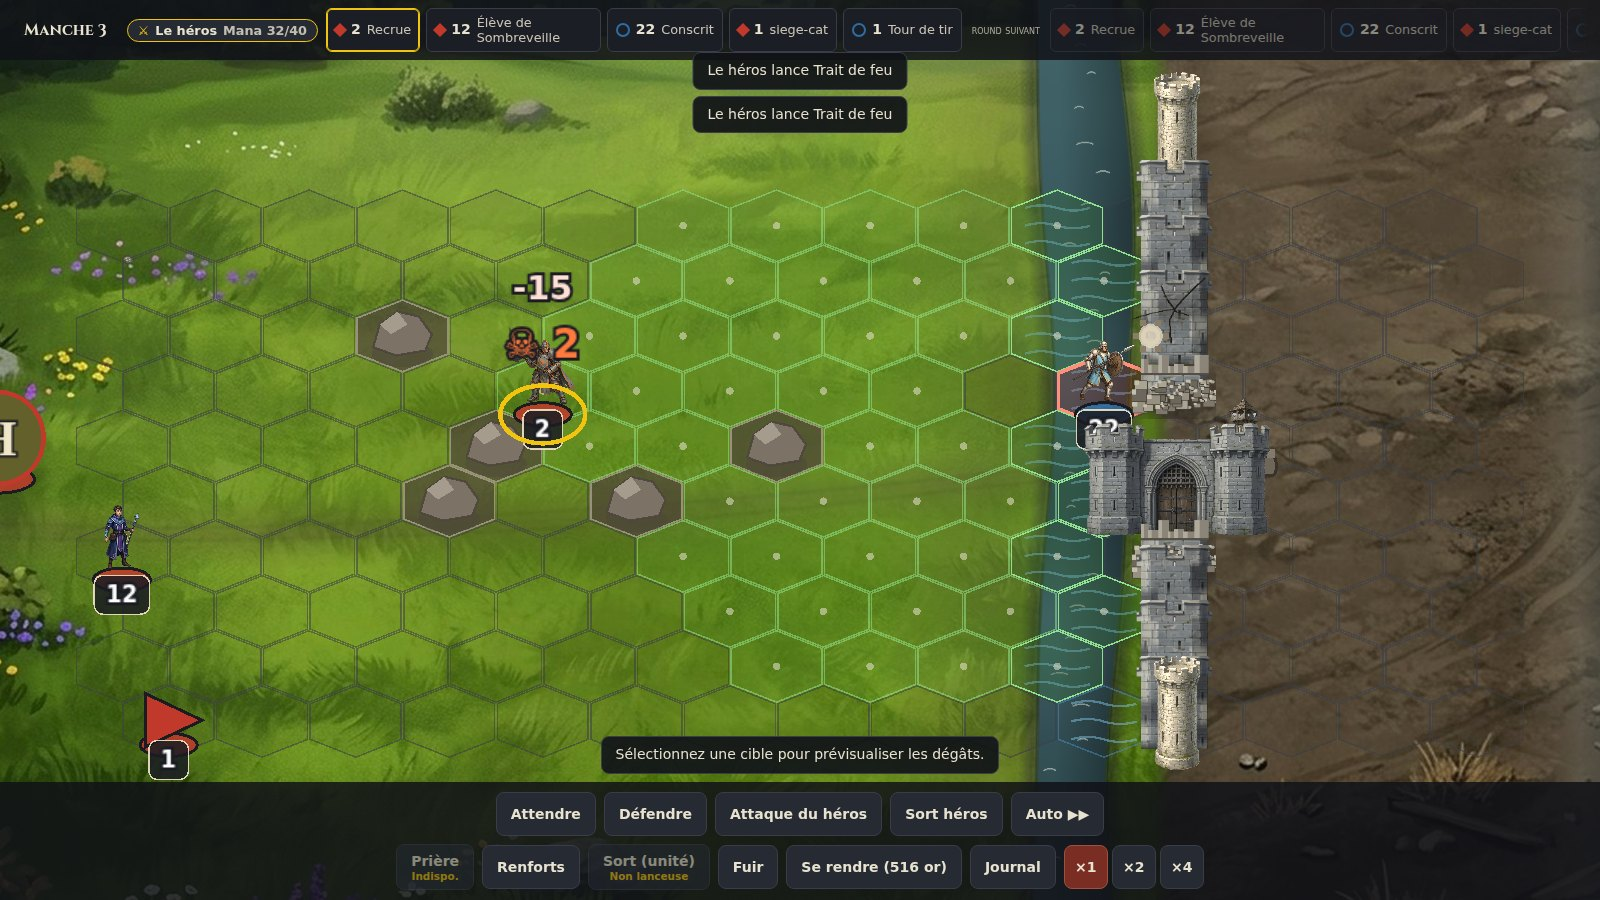
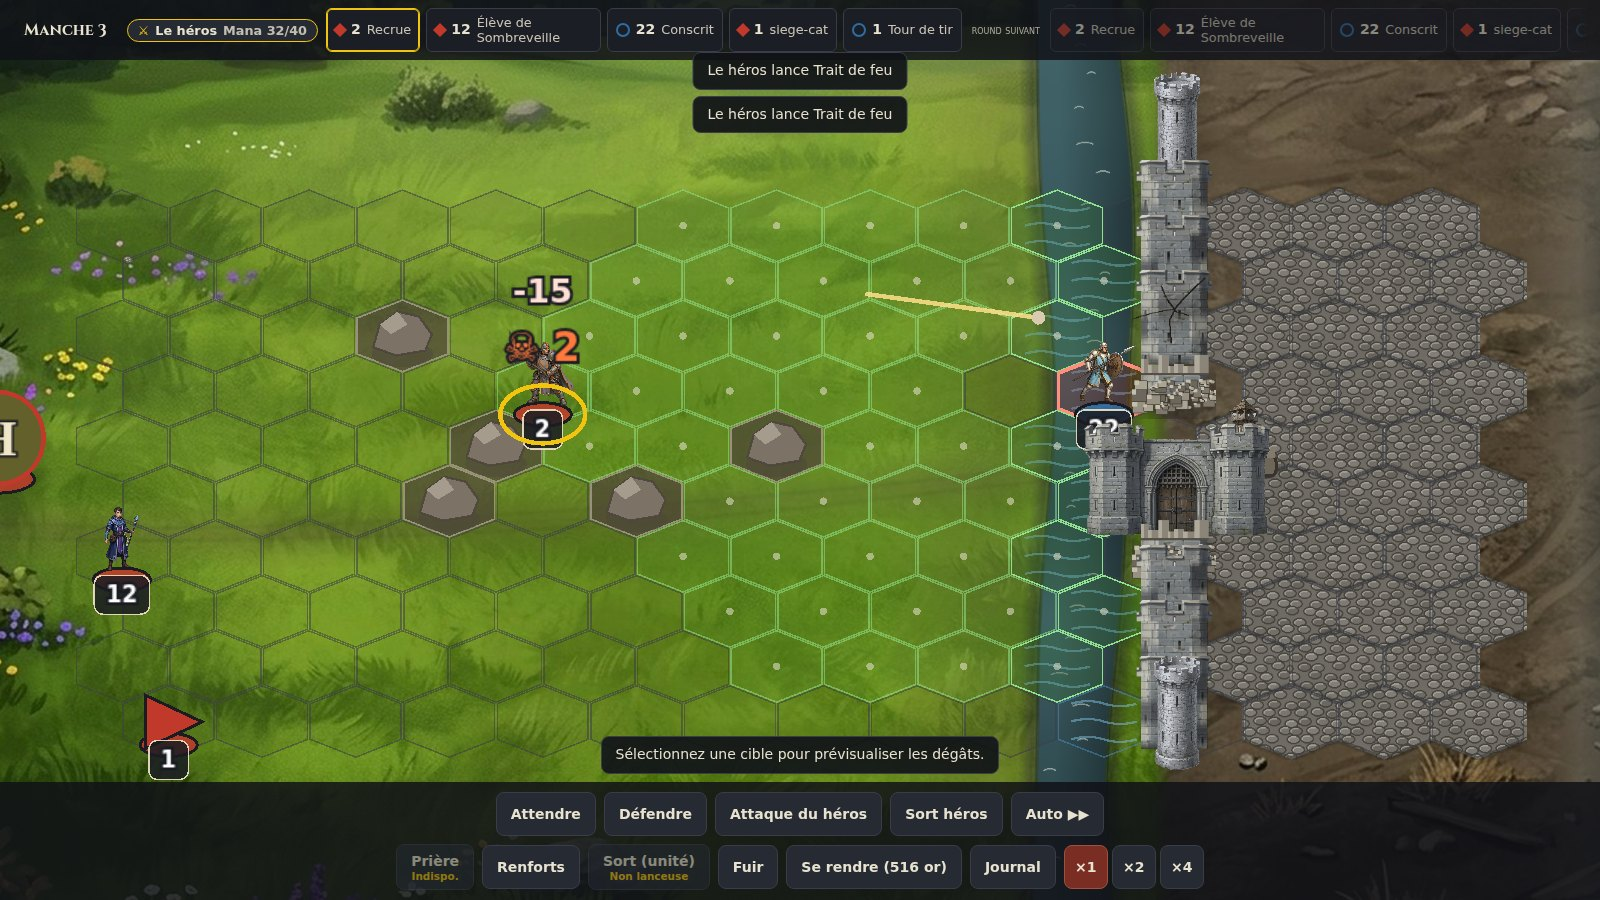
Siège : pavage hexagonal de la cour (effet ville) + tour d'extrémité recolorée
Retour porteur (itération 1 sur PR #490) :
- « effet ville » : la cour intérieure est pavée PAR HEX
  (combat/siege-tile-court-1..3, hex aplati iso avec débord anti-jointure,
  variante déterministe par case) — l'enceinte se lit comme une esplanade
  de ville, plus une simple bande de terre ;
- tour d'extrémité recolorée dans la pierre grise du gatehouse
  (combat/siege-piece-tower, désaturation + refroidissement, modelé peint
  et alpha conservés ; repli sur siege-tower crème).

Zéro moteur, golden inchangé, lint/typecheck verts, smoke siège 2/2,
captures docs/captures/siege/after-scene-*.jpg rafraîchies.

Claude-Session: https://claude.ai/code/session_01JCpMePDa57rjX2ZTTekusS

diff --git a/packages/client/src/scenes/combat/CombatScene.ts b/packages/client/src/scenes/combat/CombatScene.ts
@@ -39,6 +39,8 @@ import {
   siegeSceneLayout,
   siegeMoatStripUrl,
   siegeWallPieceUrl,
+  siegeCourtTileUrl,
+  siegeSceneTowerUrl,
 } from '../../render/assets';
 import { computeWallLayout, drawCurtain, drawTower, drawGate, drawDamage } from '../../render/siegeWall';
 import { heroArchetype } from '../../app/game';
@@ -434,6 +436,26 @@ export class CombatScene {
         this.sceneLayer.addChild(sprite);
       });
     }
+    // « Effet ville » : pavage hexagonal des cases de COUR (dans l'enceinte,
+    // entre le rempart et le bord défenseur) — 3 variantes déterministes.
+    const wallCol = walls[0]!.col;
+    for (let col = wallCol + 1; col < COMBAT_COLS; col++) {
+      for (let row = 0; row < COMBAT_ROWS; row++) {
+        const tileUrl = siegeCourtTileUrl(((col * 31 + row * 17) % 3) + 1);
+        if (!tileUrl) break;
+        const { x, y } = offsetToPixel({ col, row });
+        void Assets.load(tileUrl).then((texture) => {
+          if (this.destroyed || this.sceneKey !== key) return;
+          const sprite = new Sprite(texture);
+          sprite.anchor.set(0.5);
+          sprite.position.set(x, y);
+          sprite.width = layout.courtTile.w;
+          sprite.height = layout.courtTile.h;
+          sprite.zIndex = 2;
+          this.sceneLayer.addChild(sprite);
+        });
+      }
+    }
   }
 
   /**
@@ -621,7 +643,7 @@ export class CombatScene {
 
     layout.towers.forEach((t, i) => {
       ensure(`tower:${i}`, 'tower', () => {
-        const url = siegeTowerUrl();
+        const url = siegeSceneTowerUrl();
         if (!url) return null;
         const sprite = new Sprite();
         sprite.position.set(t.x, t.y);

diff --git a/packages/client/src/render/assets.ts b/packages/client/src/render/assets.ts
@@ -381,6 +381,21 @@ export function siegeWallPieceUrl(state: 'intact' | 'cracked' | 'razed', variant
   return registry.get(`combat/siege-piece-wall-${state}`);
 }
 
+/**
+ * Tuile de sol PAVÉ d'une case de cour (« effet ville » hex par hex dans
+ * l'enceinte), 3 variantes déterministes. Repli variante 1, puis `undefined`
+ * (⇒ pas de pavage, la cour peinte de la scène suffit).
+ */
+export function siegeCourtTileUrl(variant: number): string | undefined {
+  return registry.get(`combat/siege-tile-court-${variant}`) ?? registry.get('combat/siege-tile-court-1');
+}
+
+/** Tour d'extrémité du rempart recolorée pierre grise (assortie au gatehouse) ;
+ *  repli sur l'art d'origine `siege-tower` (crème). */
+export function siegeSceneTowerUrl(): string | undefined {
+  return registry.get('combat/siege-piece-tower') ?? registry.get('combat/siege-tower');
+}
+
 /** Layout de calage de la scène de siège (board-space), émis par le générateur. */
 export interface SiegeSceneLayout {
   scale: number;
@@ -388,6 +403,7 @@ export interface SiegeSceneLayout {
   wallX: number;
   piece: { w: number; hAbove: number; hBelow: number };
   moatStrip: { x0: number; y0: number };
+  courtTile: { w: number; h: number };
   gate: { x: number; yBottom: number; w: number; h: number };
   towers: { x: number; y: number; h: number }[];
 }

diff --git a/tools/assets/gen_siege_scene.py b/tools/assets/gen_siege_scene.py
@@ -486,6 +486,77 @@ def build_wall_piece(rng: random.Random, state: str, variant: int = 1) -> Image.
     return piece
 
 
+# --- Sol hexagonal de cour (« effet ville » : pavés PAR HEX dans l'enceinte) ---
+
+# Dimensions d'un hex de plateau (pointy-top APLATI iso, cf. hexgrid.ts) + un
+# léger débord pour absorber les jointures entre tuiles voisines.
+COURT_TILE_BLEED = 1.2
+COURT_TILE_W = HEX_W + 2 * COURT_TILE_BLEED
+COURT_TILE_H = 2 * HEX * SQUASH + 2 * COURT_TILE_BLEED
+
+
+def hex_mask(w: int, h: int, feather_px: int) -> Image.Image:
+    """Masque alpha d'un hex pointy-top aplati (bords adoucis)."""
+    m = Image.new("L", (w, h), 0)
+    d = ImageDraw.Draw(m)
+    cx0, cy0 = w / 2, h / 2
+    pts = []
+    for k in range(6):
+        a = math.radians(-90 + k * 60)
+        pts.append((cx0 + (HEX + COURT_TILE_BLEED) * math.cos(a) * S, cy0 + (HEX + COURT_TILE_BLEED) * math.sin(a) * SQUASH * S))
+    d.polygon(pts, fill=255)
+    return m.filter(ImageFilter.GaussianBlur(feather_px))
+
+
+def build_court_tile(variant: int) -> Image.Image:
+    """Tuile de sol PAVÉ d'une case de cour (pierre grise du gatehouse) — pose
+    l'« effet ville » hex par hex à l'intérieur de l'enceinte. Peinte : pavés
+    irréguliers, joints sombres, éclat haut-gauche, usure. Déterministe."""
+    rng = random.Random(SEED * 100 + variant)
+    w, h = img_px(COURT_TILE_W), img_px(COURT_TILE_H)
+    base = Image.new("RGB", (w, h), (124, 120, 112))
+    d = ImageDraw.Draw(base)
+    # Pavés en quinconce (ellipses aplaties), teinte pierre jitterée.
+    cob_w = img_px(11.0)
+    cob_h = img_px(7.2)
+    for j, y in enumerate(range(-cob_h, h + cob_h, int(cob_h * 0.92))):
+        off = (j % 2) * cob_w // 2
+        for x in range(-cob_w + off, w + cob_w, int(cob_w * 1.02)):
+            t = rng.randint(-16, 16)
+            jx = rng.randint(-2 * S, 2 * S)
+            jy = rng.randint(-S, S)
+            tone = (132 + t, 128 + t, 120 + t)
+            box = [x + jx, y + jy, x + jx + cob_w - 2 * S, y + jy + cob_h - S]
+            d.ellipse(box, fill=tone, outline=(78, 74, 66), width=S)
+            # Éclat haut-gauche (volume, lumière cohérente avec la scène).
+            d.arc([box[0] + S, box[1] + S, box[2] - S, box[3] - S], 150, 300, fill=(178 + t // 2, 174 + t // 2, 164 + t // 2), width=S)
+    # Usure : lavis sombre lisse par plaques.
+    n = smooth_noise(rng, w, h, 5, blur=8 * S)
+    dark = ImageEnhance.Brightness(base).enhance(0.8)
+    base = blend_mask(base, dark, n * 0.5)
+    out = Image.new("RGBA", (w, h), (0, 0, 0, 0))
+    out.paste(base, (0, 0), hex_mask(w, h, feather_px=int(1.2 * S)))
+    return out
+
+
+def recolor_scene_tower() -> Image.Image:
+    """Tour d'extrémité recolorée dans la pierre GRISE du gatehouse (l'art
+    `siege-tower.png` est crème — il jurait avec les pièces de mur). Le modelé
+    peint est conservé (désaturation + refroidissement), l'alpha intact."""
+    src = Image.open(OUT_COMBAT / "siege-tower.png").convert("RGBA")
+    alpha = src.split()[3]
+    rgb = src.convert("RGB")
+    rgb = ImageEnhance.Color(rgb).enhance(0.3)
+    rgb = ImageEnhance.Brightness(rgb).enhance(0.88)
+    arr = np.asarray(rgb, dtype=np.float32)
+    arr[..., 0] *= 0.94  # refroidit : moins de rouge, un peu plus de bleu
+    arr[..., 1] *= 0.97
+    arr[..., 2] *= 1.04
+    out = Image.fromarray(np.clip(arr, 0, 255).astype(np.uint8), "RGB").convert("RGBA")
+    out.putalpha(alpha)
+    return out
+
+
 # --- Assemblage & sorties ---
 
 
@@ -534,12 +605,22 @@ def main() -> None:
     piece2.save(OUT_COMBAT / "siege-piece-wall-2.png")
     print(f"siege-piece-wall-2.png {piece2.size}")
 
+    # Sol hexagonal de cour (« effet ville ») + tour d'extrémité recolorée.
+    for v in (1, 2, 3):
+        tile = build_court_tile(v)
+        tile.save(OUT_COMBAT / f"siege-tile-court-{v}.png")
+        print(f"siege-tile-court-{v}.png {tile.size}")
+    tower = recolor_scene_tower()
+    tower.save(OUT_COMBAT / "siege-piece-tower.png")
+    print(f"siege-piece-tower.png {tower.size}")
+
     layout = {
         "scale": S,
         "scene": {"x0": SCENE_X0, "y0": SCENE_Y0, "w": SCENE_W, "h": SCENE_H},
         "wallX": round(WALL_X, 2),
         "piece": {"w": PIECE_W, "hAbove": PIECE_H_ABOVE, "hBelow": PIECE_H_BELOW},
         "moatStrip": {"x0": round(MOAT_STRIP_X0, 2), "y0": SCENE_Y0},
+        "courtTile": {"w": round(COURT_TILE_W, 2), "h": round(COURT_TILE_H, 2)},
         "gate": {
             "x": round(WALL_X + 2, 2),
             "yBottom": round(GATE_Y_BOTTOM, 2),

diff --git a/docs/12-assets-style-guide.md b/docs/12-assets-style-guide.md
@@ -329,11 +329,14 @@ fidélité par simple substitution de PNG homonyme, aucun code — cf.
   + cour + ville assiégée estompée), `combat/siege-moat.png` (bande d'eau
   RGBA posée seulement si douve moteur, Fort ≥ 2), pièces de rempart **par
   rangée** empilables `combat/siege-piece-wall[-2|-cracked|-razed].png`
-  (états mappés sur `siegeWallHp`, brèche = rangée rasée + gravats), et le
-  layout de calage `assets/layouts/siege-scene.json` (consommé par
-  `siegeSceneLayout()`). Client : sprites dans `stacksLayer` (zIndex = y ⇒
-  occlusion unités/mur correcte), porte `siege-gate` + tours `siege-tower`
-  aux extrémités. **Mêmes clés ⇒ un art Gemini supérieur se substitue par
+  (états mappés sur `siegeWallHp`, brèche = rangée rasée + gravats), **sol
+  hexagonal de cour** `combat/siege-tile-court-<1|2|3>.png` (« effet ville » :
+  pavés par hex dans l'enceinte, variante déterministe par case), **tour
+  d'extrémité recolorée** `combat/siege-piece-tower.png` (pierre grise
+  assortie au gatehouse, repli `siege-tower` crème), et le layout de calage
+  `assets/layouts/siege-scene.json` (consommé par `siegeSceneLayout()`).
+  Client : sprites dans `stacksLayer` (zIndex = y ⇒ occlusion unités/mur
+  correcte), porte `siege-gate` aux rangées d'ouverture. **Mêmes clés ⇒ un art Gemini supérieur se substitue par
   simple dépôt** ; **repli gracieux** = habillage procédural historique
   complet si un asset manque. Déterministe (`random.Random(SEED)`).
 - **Unité invoquée** (`assets/units/core/elementaire-de-terre.png`, 512²) :

diff --git a/.claude/plans/siege-visual-overhaul.md b/.claude/plans/siege-visual-overhaul.md
@@ -156,3 +156,10 @@ y compris plaine, validable en 1 capture) ; **Lot 1** = scène peinte génériqu
   bundle 356 Ko gzip < 800, smoke siège+arène 4/4, captures
   `after-scene-*.jpg`. **Pas de bump `CURRENT_SAVE_VERSION`, zéro moteur.**
   Restant : retour visuel du porteur ⇒ Lot 3 (polish) ou itération scène.
+- 2026-07-19 — Retour porteur (itération 1) : « sol hexagonal pour l'effet
+  ville » + « tour à la bonne couleur ». Livré : pavage PAR HEX de la cour
+  (`siege-tile-court-1..3`, hex aplati iso + débord anti-jointure, variante
+  déterministe par case, posé dans `sceneLayer` z2 pour les cols à l'est du
+  rempart) et tour d'extrémité recolorée pierre grise du gatehouse
+  (`siege-piece-tower`, désaturation + refroidissement, alpha conservé,
+  repli sur l'art crème). Clés stables ⇒ substituables par dépôt.